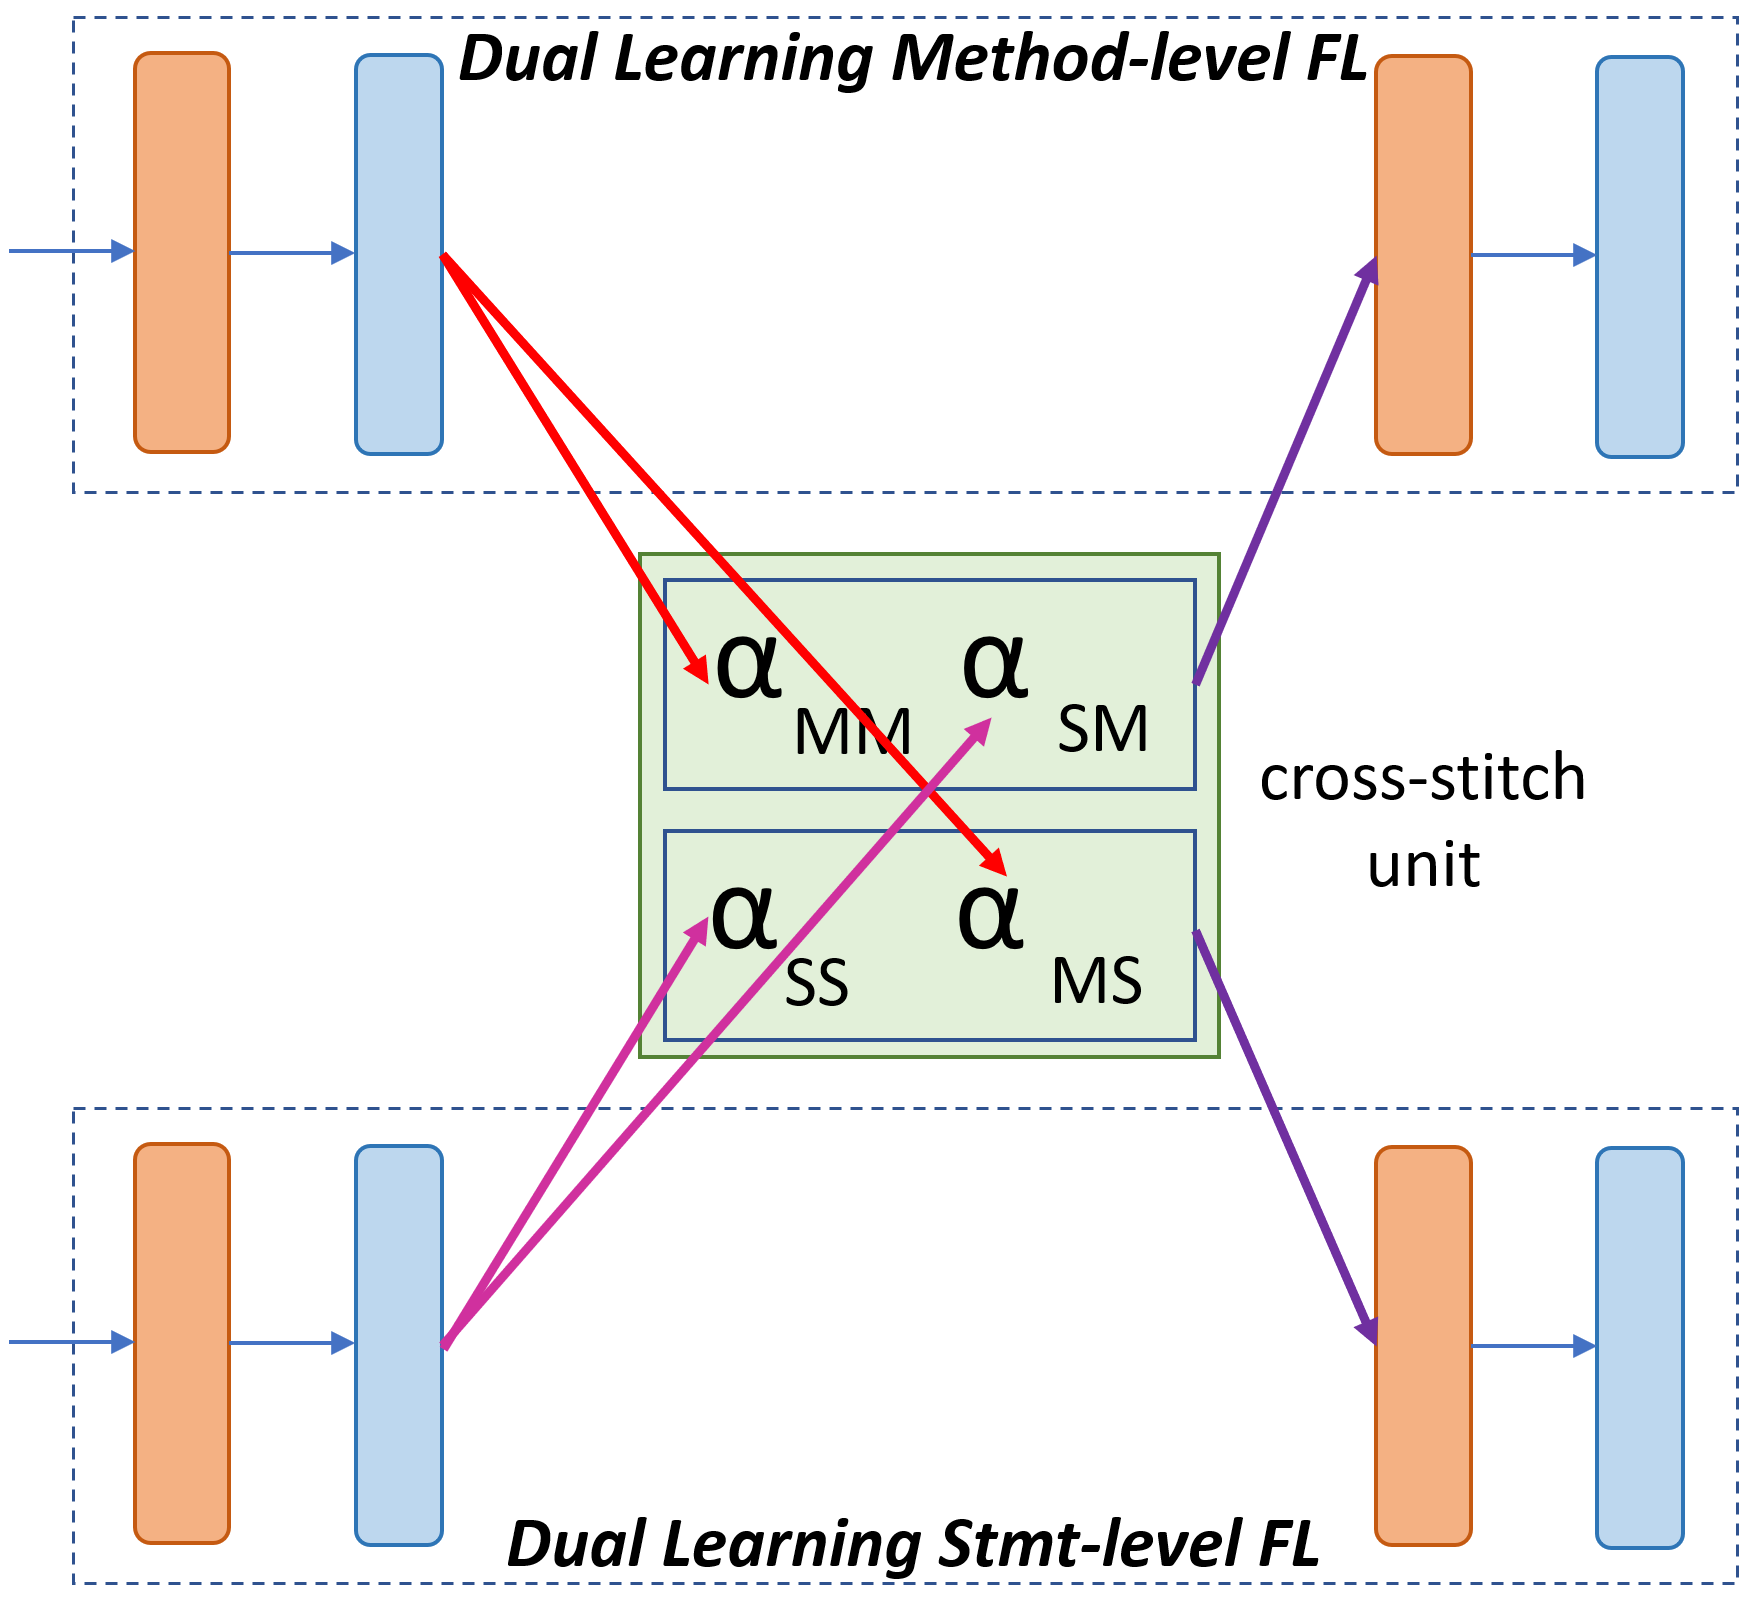
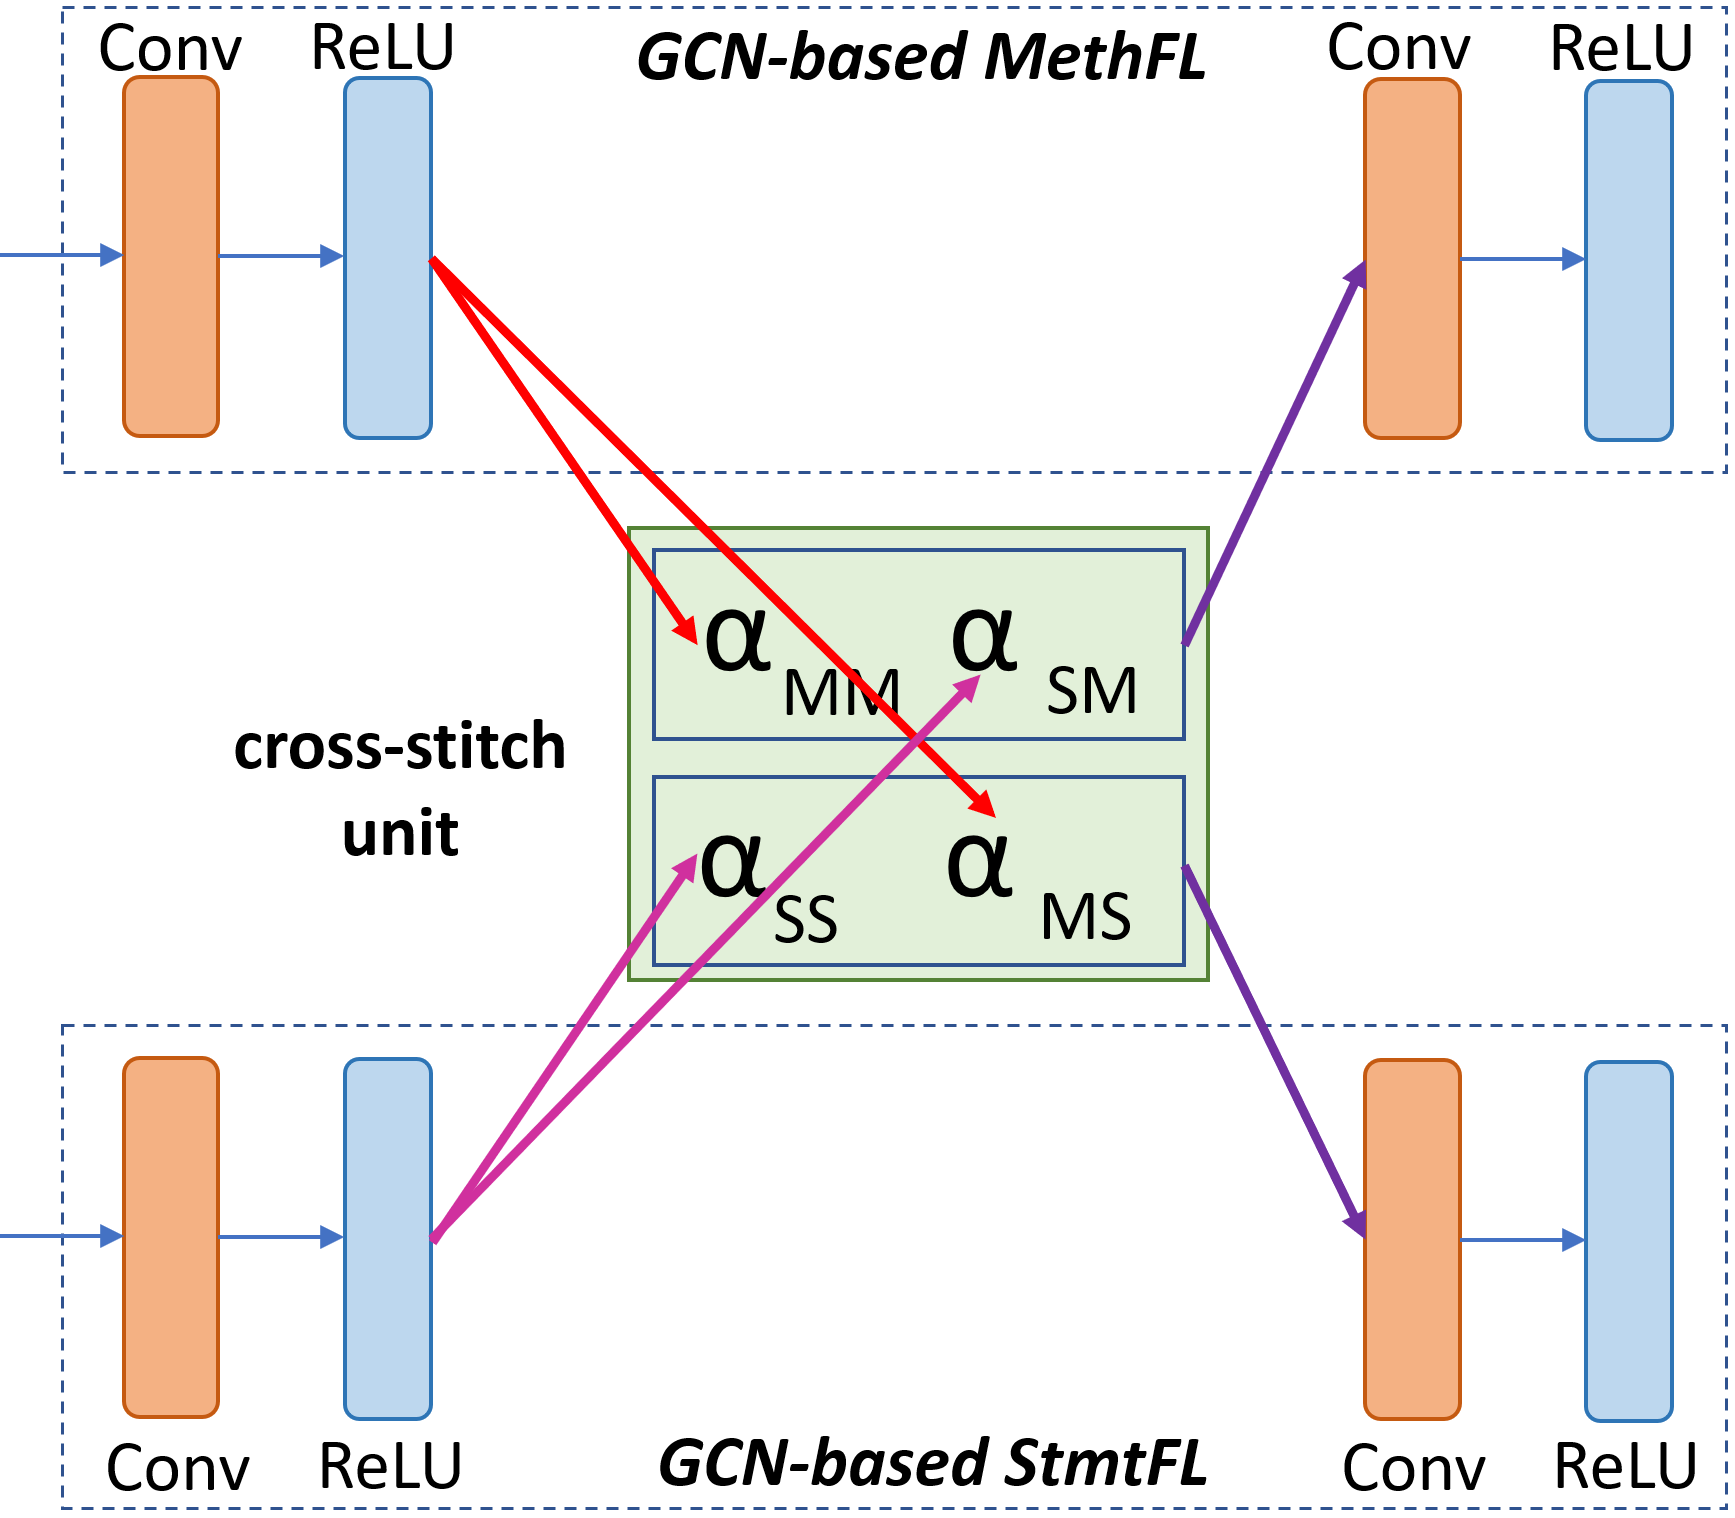
figures for step 3

diff --git a/sections/approach_step3.tex b/sections/approach_step3.tex
@@ -15,10 +15,10 @@
 \end{figure}
 
 This section explains our dual learning scheme in step 3 (illustrated
-in Figure~\ref{dual-learning}). The input of this step includes two
-feature graphs $G_M$ and $G_S$ for the method and statement
-levels. Each node in each feature graph is a vector computed for a
-method or a statement (explained in
+in Figures~\ref{dual-learning} and~\ref{cross-stitch}). The input of
+this step includes two feature graphs $G_M$ and $G_S$ for the method
+and statement levels. Each node in each feature graph is a vector
+computed for a method or a statement (explained in
 Section~\ref{feature-learning:sec}). The output is the output graphs
 for methods and statements. For the training process, each node in an
 output graph is a buggy or non-buggy label.  For the prediction, each
@@ -28,11 +28,55 @@ node in an output graph will be predicted as buggy or non-buggy.
 
 %in this step, \tool applies a dual learning fault localization model to extract the fault locations. So there are two main tasks in this step, including the method-level fault localization and the statement-level fault localization. So the input for this step is the two graphs $G_m$ and $G_s$, and the expected output is the prediction label for each node in these two graphs from these two tasks.
 
+%Tien
+\noindent {\bf Graph Convolution Network (GCN) for FL.} First, {\tool}
+has two GCN models~\cite{kipf2016semi}, each for FL at the method and
+statement levels. Each GCN model has $n-1$ pairs of a graph
+convolution layer (\code{Conv}) and a rectified linear unit
+(\code{ReLU}). They are aimed to consume and learn the characteristic
+features in the input feature graph. The last pair of each GCN model
+is a pair of a graph convolution layer (\code{Conv}) and a softmax
+layer (\code{SoftMax}). The softmax layer plays the role of the
+classifier on whether a node corresponding to a method or a statement
+is labeled as buggy or non-buggy.
+
+In a regular GCN model, those above pairs of \code{Conv} and
+\code{ReLU} are connected to one another. However, to achieve dual
+learning between method-level and statement-level FL (\code{methFL}
+and \code{stmtFL}), we apply a cross-stitch
+technique~\cite{misra2016cross} to connect the two GCN models. The
+sharing of representations between \code{methFL} and \code{stmtFL} is
+modeled by learning a linear combination of the input features in both
+feature graphs. At each of the \code{ReLU} layer of each GCN model
+(Figure~\ref{cross-stitch}), we aim to learn such a linear combination
+of the output from the graph convolution layer (\code{Conv}) of the
+two tasks \code{methFL} and \code{stmtFL}.
 
 
-Specifically, \tool firstly builds two separate GCN models \cite{kipf2016semi} for the method-level fault localization and the statement-level fault localization. For the GCN model applied on the method-level, there are $i$ graph convolutional layer $Conv_1, Conv_2, ..., Conv_i$ as shown in Figure \ref{dual-learning} and after each graph convolutional layer $Conv_i$, there is $ReLU$ layer follows it. Considering a graph convolutional layer $Conv_i$ and the following $ReLU$ layer together as one big layer, the GCN model contains $i$ layers in total. The only special case is in the last layer. There is a $SoftMax$ layer following the graph convolutional layer instead of a $RuLU$ layer. Similar to the GCN model applied on the method-level, for the statement-level fault location, there is the other GCN model with $i$ layers. Each layer contains one graph convolutional layer $Conv'_i$ and one $Relu$ layer. And the $SoftMax$ layer replaces the $ReLU$ layer in the last layer of the GCN model.
+%The sub-network in Figure 4(top) gets direct supervision from task A
+%and indirect supervision (through cross-stitch units) from task B. We
+%call the sub- network that gets direct supervision from task A as
+%network A, and correspondingly the other as B. Cross-stitch units help
+%regularize both tasks by learning and enforcing shared representations
+%by combining activation (feature) maps. As we show in our experiments,
+%in the case where one task has less labels than the other, such
+%regularization helps the “data-starved” tasks.
+
+%The α values of a cross-stitch unit model linear combinations of
+%feature maps. Their initialization in the range [0, 1] is important
+%for stable learning, as it ensures that values in the output
+%activation map (after cross-stitch unit) are of the same order of
+%magnitude as the input values before linear combination.
+%-----
+
+%units combine the activations from multiple networks and can be
+%trained end-to-end.
+
+%Specifically, \tool firstly builds two separate GCN models \cite{kipf2016semi} for the method-level fault localization and the statement-level fault localization. For the GCN model applied on the method-level, there are $i$ graph convolutional layer $Conv_1, Conv_2, ..., Conv_i$ as shown in Figure \ref{dual-learning} and after each graph convolutional layer $Conv_i$, there is $ReLU$ layer follows it. Considering a graph convolutional layer $Conv_i$ and the following $ReLU$ layer together as one big layer, the GCN model contains $i$ layers in total. The only special case is in the last layer. There is a $SoftMax$ layer following the graph convolutional layer instead of a $RuLU$ layer. Similar to the GCN model applied on the method-level, for the statement-level fault location, there is the other GCN model with $i$ layers. Each layer contains one graph convolutional layer $Conv'_i$ and one $Relu$ layer. And the $SoftMax$ layer replaces the $ReLU$ layer in the last layer of the GCN model.
 
 To achieve the information sharing between two layers as a dual learning framework, we use the cross-stitch unit \cite{misra2016cross} for help. To be more detailed, for each layer of GCN, it calculates the hidden status using the following formula.
+
+
 
 \begin{equation}\label{eq:1}
 	\hat{A} = D'^{-\frac{1}{2}}A'D'{-\frac{1}{2}}
